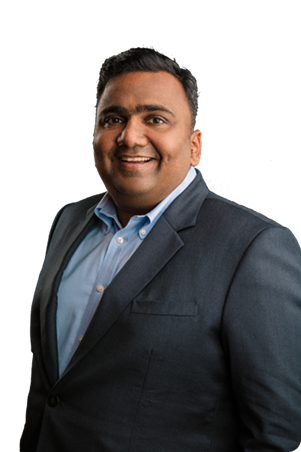
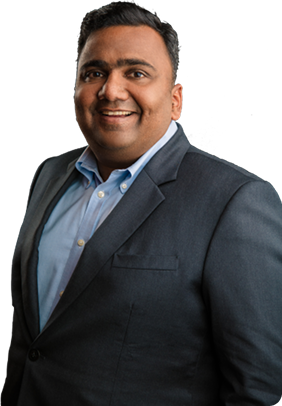
Team & About page polish to match live jv.ventures design
Team page (Team.module.css + founder images):
- "TEAM" hero title sits above the cards with a clear nav gap (no collision)
- Founder cards restyled (gradient panel, larger name, plain READ MORE link,
  stacked LinkedIn) matching the live /team layout
- Founder portraits: trimmed transparent padding from the cutouts so the person
  fills the frame and reads large within a normal-height card; bottom-right
  aligned to the card frame
- Roster grid: fixed 4 columns on desktop/laptop (was auto-fill, which dropped
  to 3 at ~1280px scaled-laptop widths), 3/2 on tablet/phone

About page (About.module.css + book-search-1.png):
- GRIDS: layers panel overlaps the image bottom; FRAGMENTED/INTEGRATED labels
  enlarged and raised
- Innovation layer icon recolored to solid black (was faint light-gray)
- Platform card descriptions sized down

diff --git a/web/src/components/team/Team.module.css b/web/src/components/team/Team.module.css
@@ -13,26 +13,25 @@
    founder row overlaps from below (ghosted background heading). */
 .hero {
   position: relative;
-  height: 0;
-  padding: 0;
   z-index: 0;
+  /* Clear space between the fixed navbar and the ghosted TEAM title.
+     High min keeps the gap comfortable even on scaled-down laptop widths. */
+  padding-top: clamp(7.5rem, 7vw, 8rem);
+  text-align: center;
 }
 
+/* Ghosted "TEAM" title sits ABOVE the founder cards (live jv.ventures layout);
+   the cards overlap only its very bottom edge. */
 .heroTitle {
-  position: absolute;
-  left: 50%;
-  top: 0;
-  transform: translateX(-50%);
-  width: 100%;
   margin: 0;
-  text-align: center;
+  width: 100%;
   pointer-events: none;
   font-weight: 800;
-  line-height: 0.92;
+  line-height: 0.9;
   letter-spacing: 0.04em;
   text-transform: uppercase;
-  color: rgba(255, 255, 255, 0.12);
-  font-size: clamp(4rem, 14vw, 11rem);
+  color: rgba(255, 255, 255, 0.1);
+  font-size: clamp(3.5rem, 11vw, 9rem);
 }
 
 .heroTitle em {
@@ -47,7 +46,8 @@
 .founders {
   position: relative;
   z-index: 1;
-  margin-top: clamp(5rem, 14vw, 11rem);
+  /* Cards sit BELOW the TEAM title with a small gap — no text collision. */
+  margin-top: clamp(0.5rem, 1.5vw, 1.5rem);
   padding: 0 clamp(1.25rem, 6vw, 6rem) clamp(3rem, 8vw, 7rem);
   display: grid;
   grid-template-columns: 1fr 1fr;
@@ -63,13 +63,23 @@
   display: flex;
   align-items: stretch;
   align-content: flex-start;
-  min-height: clamp(380px, 34vw, 480px);
-  padding: clamp(1.5rem, 3vw, 2rem);
+  /* Normal card height (slightly taller so the bottom-anchored portrait reads a
+     touch larger without inflating the box). */
+  min-height: clamp(380px, 26vw, 500px);
+  padding: clamp(1.5rem, 2.6vw, 2.25rem);
   /* Reserve more than the portrait's width so the bio text always clears the
-     photo (the portrait is 30% wide — keep a gap so long bios never collide). */
-  padding-right: clamp(9rem, 36%, 16rem);
-  border-radius: 12px;
-  background: rgba(255, 255, 255, 0.06);
+     photo (the portrait is ~45% wide — keep a gap so long bios never collide). */
+  padding-right: clamp(12rem, 56%, 26rem);
+  border-radius: 18px;
+  /* Lighter translucent blue panel (matches the live jv.ventures team cards) */
+  background: linear-gradient(
+    158deg,
+    rgba(78, 126, 210, 0.42) 0%,
+    rgba(36, 82, 165, 0.34) 52%,
+    rgba(24, 62, 132, 0.30) 100%
+  );
+  border: 1px solid rgba(255, 255, 255, 0.16);
+  box-shadow: 0 24px 60px rgba(6, 18, 44, 0.35);
   overflow: hidden;
 }
 
@@ -79,12 +89,14 @@
   bottom: 0;
   align-self: flex-end;
   height: 100%;
-  width: clamp(8rem, 30%, 14rem);
+  width: clamp(14rem, 57%, 29rem);
 }
 
+/* Full-figure cutout, anchored flush to the bottom-right frame of the card
+   (matches the live jv.ventures cards). No cropping, no empty gap at the edge. */
 .founderMedia :global(img) {
-  object-fit: cover;
-  object-position: top center;
+  object-fit: contain;
+  object-position: bottom right;
 }
 
 .founderBody {
@@ -98,65 +110,65 @@
 
 .founderRole {
   margin: 0;
-  font-size: 0.95rem;
-  color: #9bb6ec;
+  font-size: 1.05rem;
+  font-weight: 600;
+  color: #8fb2f0;
 }
 
 .founderName {
   margin: 0;
   font-weight: 700;
-  line-height: 1.1;
+  line-height: 1.05;
   letter-spacing: 0.01em;
   text-transform: uppercase;
-  font-size: clamp(1.1rem, 1.6vw, 1.3rem);
+  font-size: clamp(1.55rem, 2.2vw, 2.1rem);
   color: #fff;
 }
 
 .founderBio {
-  margin: 0;
-  max-width: 46ch;
-  font-size: clamp(0.95rem, 1.2vw, 1.05rem);
-  line-height: 1.7;
-  color: rgba(255, 255, 255, 0.82);
+  margin: 0.4rem 0 0;
+  max-width: 32ch;
+  font-size: clamp(0.95rem, 1.2vw, 1.08rem);
+  line-height: 1.6;
+  color: rgba(255, 255, 255, 0.9);
 }
 
 .actions {
   display: flex;
-  align-items: center;
-  gap: 1rem;
-  margin-top: 0.5rem;
+  flex-direction: column;
+  align-items: flex-start;
+  gap: 1.15rem;
+  margin-top: 1.1rem;
 }
 
-/* READ MORE — plain borderless white text link with chevron */
+/* READ MORE — plain borderless white text link with chevron (no pill/box) */
 .btn {
   display: inline-flex;
   align-items: center;
-  gap: 0.45rem;
-  padding: 0.6em 1.4em;
-  border: 1px solid rgba(255, 255, 255, 0.55);
-  border-radius: 99px;
+  gap: 0.5rem;
+  padding: 0;
+  border: 0;
+  border-radius: 0;
   background: transparent;
   color: #fff;
   font: inherit;
-  font-size: 0.78rem;
+  font-size: 0.82rem;
   font-weight: 700;
   letter-spacing: 0.16em;
   text-transform: uppercase;
   cursor: pointer;
-  transition: background 0.3s ease, color 0.3s ease, border-color 0.3s ease;
+  transition: opacity 0.25s ease, color 0.25s ease;
 }
 
-/* Old design: READ MORE fills white with dark text on hover. */
 .btn:hover,
 .btn:focus-visible {
-  background: #fff;
-  color: #0c2758;
-  border-color: #fff;
+  background: transparent;
+  color: #cfe0ff;
 }
 
 .btn svg {
-  width: 1em;
-  height: 1em;
+  width: 1.05em;
+  height: 1.05em;
 }
 
 /* LinkedIn — bare white glyph, no surrounding shape */
@@ -168,8 +180,8 @@
 }
 
 .liLink svg {
-  width: 1.3rem;
-  height: 1.3rem;
+  width: 1.6rem;
+  height: 1.6rem;
 }
 
 .liLink:hover,
@@ -220,15 +232,18 @@
    balloon to full width (the old tablet 13000px bug). */
 .grid {
   display: grid;
-  grid-template-columns: repeat(auto-fill, minmax(190px, 1fr));
-  gap: clamp(1rem, 2vw, 1.6rem);
+  /* Live jv.ventures roster = a FIXED 4 cards per row on desktop/laptop. Using an
+     explicit column count (not auto-fill) so display scaling on a 14" laptop can't
+     drop it to 3. Reflows to 3 / 2 only on real tablet / phone widths below. */
+  grid-template-columns: repeat(4, 1fr);
+  gap: clamp(1rem, 1.6vw, 1.4rem);
 }
 
 .card {
   position: relative;
   overflow: hidden;
-  border-radius: 12px;
-  aspect-ratio: 420 / 480;
+  border-radius: 10px;
+  aspect-ratio: 345 / 411;
   background: #fff;
 }
 
@@ -409,8 +424,16 @@
 }
 
 /* ------------------------------------------------------ Responsive --- */
-/* The leaders .grid uses auto-fill minmax (above), so it reflows to ~3 cols on
-   tablet and 2 on large phones without per-breakpoint overrides. */
+/* Roster grid steps down from the fixed 4 columns only at real tablet/phone
+   widths (a scaled-down 14" laptop stays at 4). */
+@media (max-width: 1024px) {
+  .grid { grid-template-columns: repeat(3, 1fr); }
+}
+
+@media (max-width: 600px) {
+  .grid { grid-template-columns: repeat(2, 1fr); }
+}
+
 @media (max-width: 768px) {
   /* Founders stack into a single column on small screens */
   .founders {

diff --git a/web/src/components/about/About.module.css b/web/src/components/about/About.module.css
@@ -720,10 +720,10 @@
 }
 
 .platformDesc {
-  font-size: 0.94rem;
-  line-height: 1.6;
+  font-size: 0.82rem;
+  line-height: 1.55;
   color: #fff;
-  min-height: 135px;
+  min-height: 120px;
   flex: 1;
 }
 
@@ -921,7 +921,7 @@
 .gridsCompare {
   position: absolute;
   left: clamp(1rem, 3vw, 2.5rem);
-  bottom: clamp(1rem, 3vw, 2.5rem);
+  bottom: clamp(3rem, 6vw, 6rem);
   right: clamp(1rem, 3vw, 2.5rem);
   display: grid;
   grid-template-columns: 1fr 1fr;
@@ -943,23 +943,28 @@
 }
 
 .compareCol h4 {
-  font-size: clamp(0.85rem, 1.4vw, 1.05rem);
+  font-size: clamp(1.5rem, 2.4vw, 2.7rem);
   font-weight: 700;
   text-transform: uppercase;
-  letter-spacing: 0.12em;
+  letter-spacing: 0.03em;
+  line-height: 1.05;
 }
 
 .compareCol p {
-  margin-top: 0.5rem;
-  font-size: 0.85rem;
-  line-height: 1.5;
-  color: rgba(255, 255, 255, 0.82);
+  margin-top: 0.55rem;
+  font-size: clamp(0.95rem, 1.35vw, 1.5rem);
+  line-height: 1.4;
+  color: rgba(255, 255, 255, 0.88);
 }
 
 /* Old design: light rounded panel; "BUILT ON INTEGRATED LAYERS" label inline
    to the left, dark icons/text. */
 .layersBlock {
-  margin-top: clamp(3rem, 6vw, 5rem);
+  position: relative;
+  z-index: 2;
+  /* Pull the panel up so it overlaps the bottom edge of the corridor image
+     (old jv.ventures look) instead of floating in the navy band below it. */
+  margin-top: -1.5rem;
   display: grid;
   grid-template-columns: minmax(150px, 0.7fr) 3fr;
   gap: clamp(1.2rem, 3vw, 2.2rem);